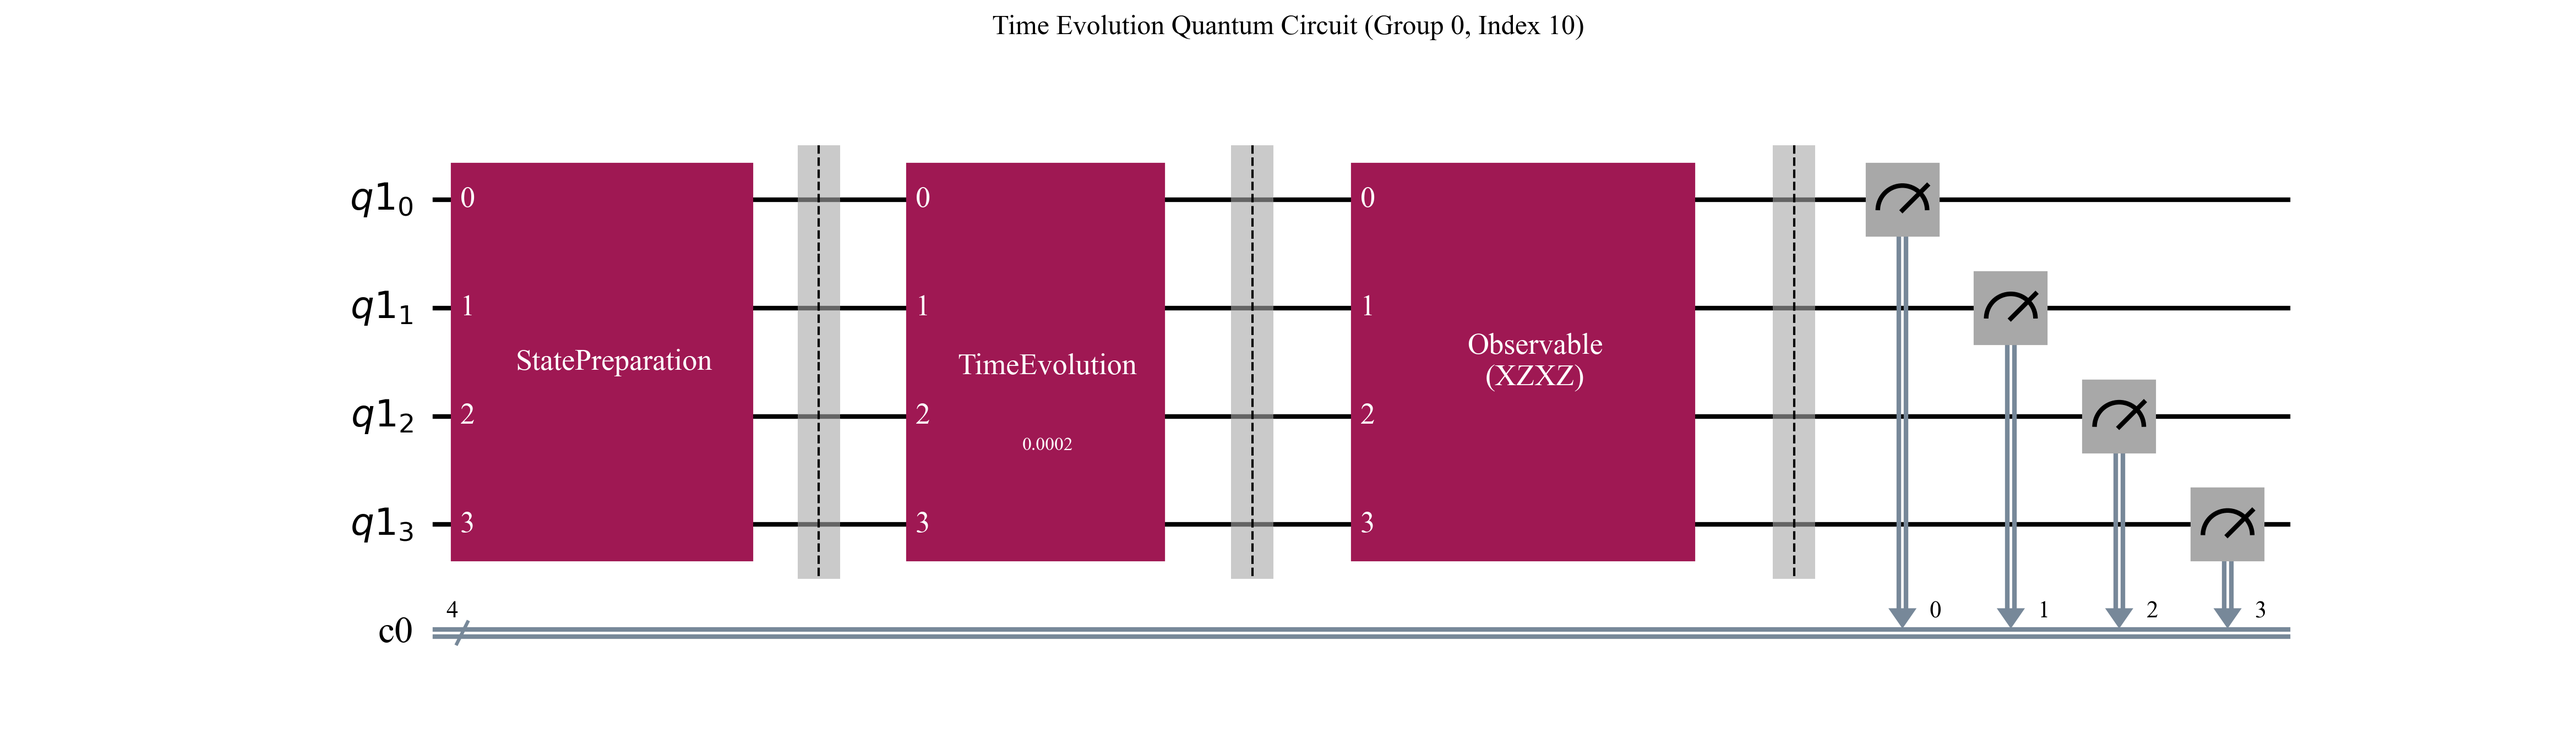
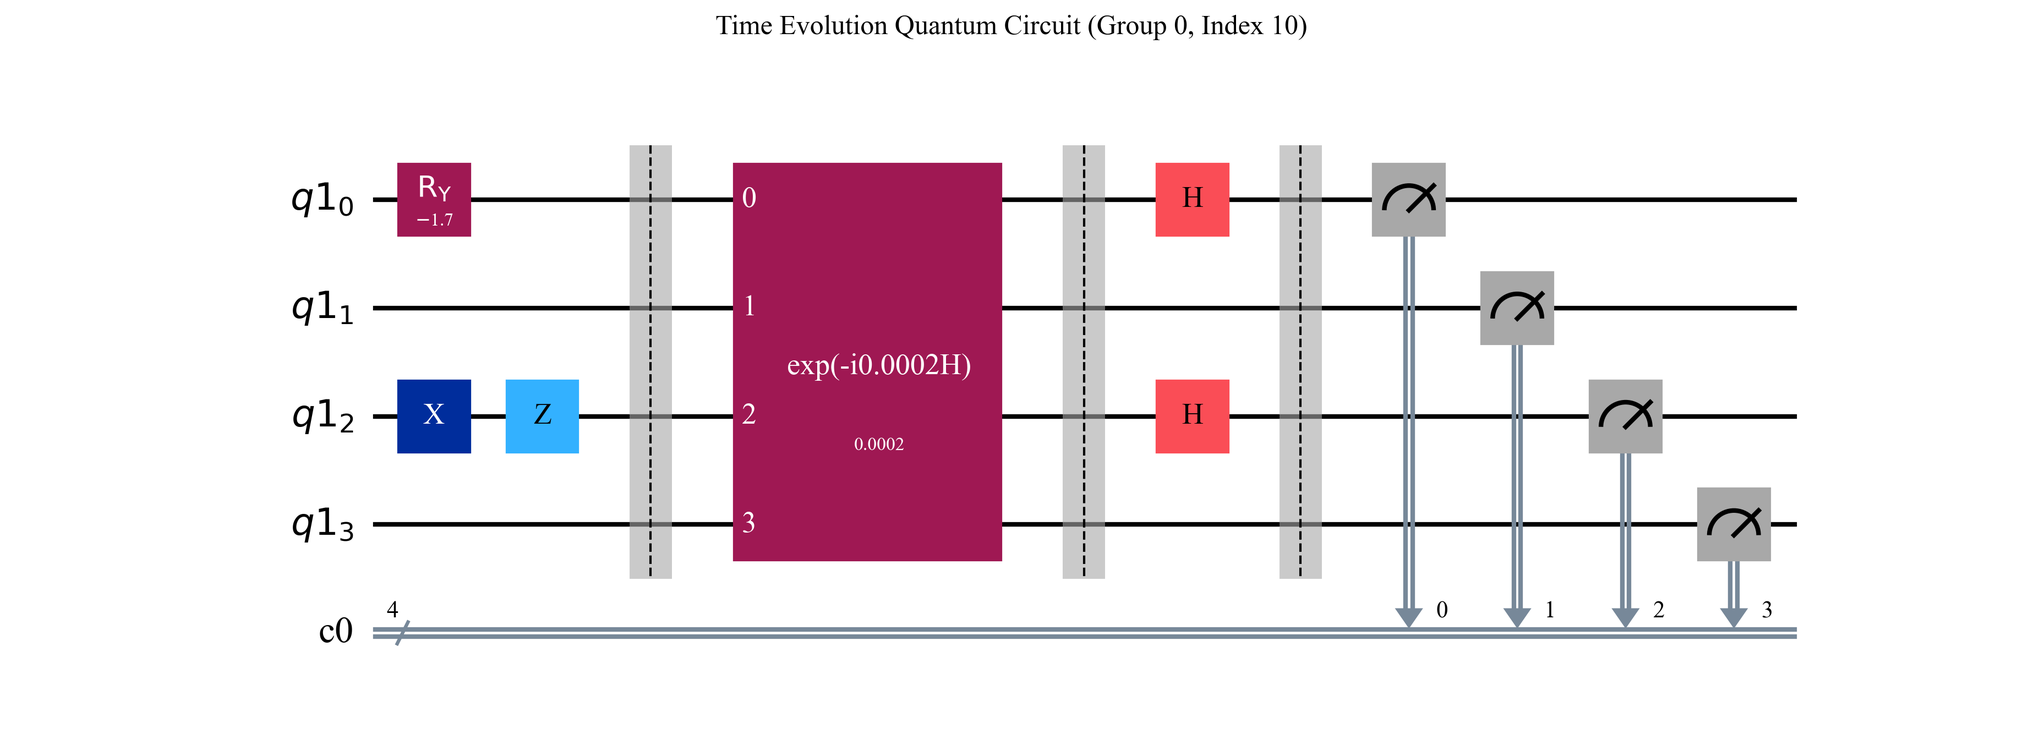
plot and cite changes

diff --git a/utility/circuits.py b/utility/circuits.py
@@ -44,7 +44,7 @@ SYNTHESIS: Dict[str, ProductFormula] = {
     'SuzukiTrotter': SuzukiTrotter(order=2, reps=2),
     'QDrift': QDrift(reps=4)
 }
-SIMPLE_CIRCUITS = True
+SIMPLE_CIRCUITS = False
 
 # -------- CLASSES --------
 class CircuitGen1DA:

diff --git a/Readme.md b/Readme.md
@@ -38,8 +38,13 @@ The quantum simulation results are provided in multiple plots that compare diffe
 
 Enjoy your quantum wave evolution experiments!
 
-# <p align="center"><img src="figures/circuit.png" width="1000"></p>
-> Figure 2: A quantum circuit for the time evolution problem shown in Figure 1 with four distinct algorithmic sections.
+## Citation
+    @article{schade2023quantum,
+    title={A quantum computing concept for 1-D elastic wave simulation},
+    author={Schade, Malte and Boesch, Cyrill and Hapla, Vaclav and Fichtner, Andreas},
+    journal={arXiv preprint arXiv:2312.14747},
+    year={2023}
+    }
 
-## References
-* Schade, M., Bösch, C., Hapla, V.,and Fichtner, A. (2023). [A quantum computing concept for 1-D elastic wave simulation](https://arxiv.org/pdf/2312.14747.pdf), arXiv:2312.14747 [physics.geo-ph].
+# <p align="center"><img src="figures/circuit.png" width="1000"></p>
+> Figure 2: A quantum circuit implementing the time evolution problem shown in Figure 1 with four distinct algorithmic sections: State initialization, Hamiltonian time evolution, implementation of a state tomography observable, and measurement.
